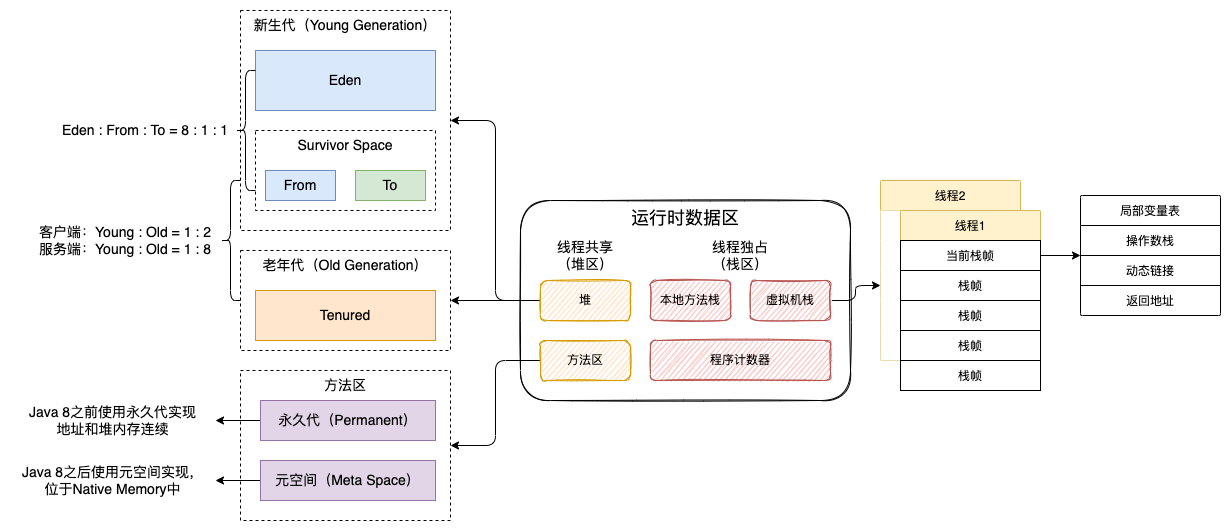
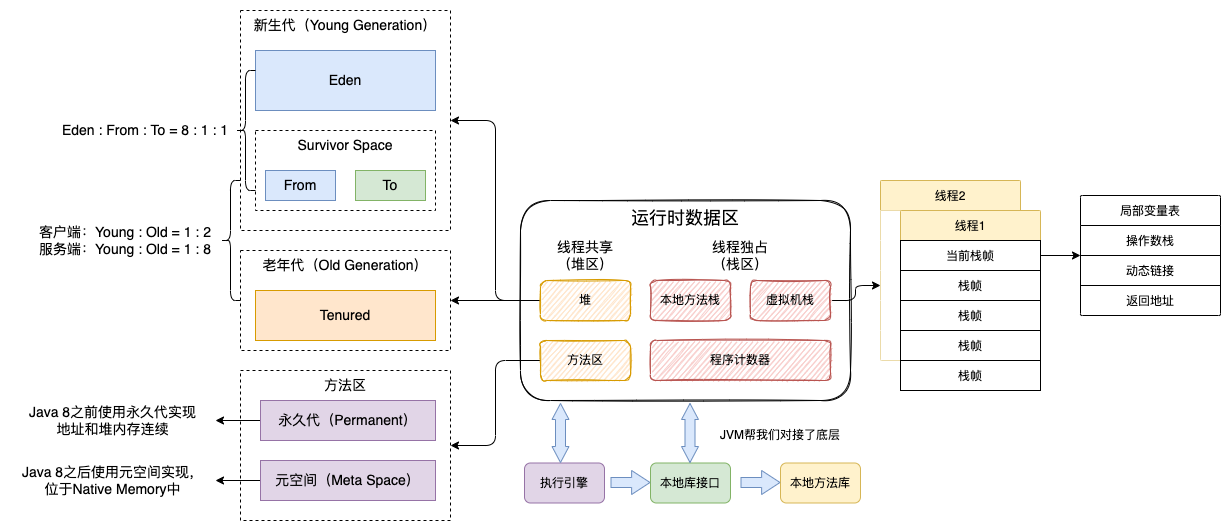
补充JVM内存模型，静态类初始化

Changed region(s): [[0.4013, 0.7533, 0.71, 0.9642]]

diff --git a/src/Android性能/README.md b/src/Android性能/README.md
@@ -1,1 +1,7 @@
 还未迁移，见[博客](https://blog.afauria.xyz/categories/Android/)
+
+# 大图片
+
+1. Android 3.0 之前：Bitmap像素数据存储在 native 堆中，数据的释放依赖 Java对象的 finalize() 方法回调，该方法的调用不太可靠，而且现在已经被 Java 标记为废弃。
+2. Android 3.0 ~ 7.0：Bitmap 像素数据存储在 Java 堆中，确实解决了可靠释放的问题；也带来一个新问题：Android 应用程序对 Java 堆的限制是很严格的，创建Bitmap这种大对象容易引起 GC。
+3. Android 8.0 及以后：Bitmap 像素数据存储在 native 堆中，同时引入了 NativeAllocationRegistry 机制保证了 native 内存释放的可靠性，同时可以用的空间大大增加。

diff --git a/src/Java/类的加载和初始化.md b/src/Java/类的加载和初始化.md
@@ -24,6 +24,13 @@ tags:
 - 子类的普通变量和普通代码块
 - 子类构造函数
 
+静态内部类的初始化：
+
+1. 静态内部类和静态变量一样只和类有关，和对象引用无关，不需要通过实例调用。
+2. 静态内部类在使用时（不一定要实例化）才加载（可用于实现懒汉单例模式）
+3. 加载外部类、或者使用外部类对象时不会初始化静态内部类。
+4. 加载静态内部类时会初始化外部类
+
 # 类的加载
 
 ## 类加载方式

diff --git a/src/README.md b/src/README.md
@@ -20,7 +20,7 @@
 
 整理中...（粗体表示暂未整理）
 
-精心整理，原创发布。包含大量容易忽略的细节，尽可能通俗、简短，不说废话。
+精心整理，原创发布。包含大量容易忽略的细节，尽可能通俗、简短，不吹水。
 
 设计模式篇源码[仓库位置](https://github.com/Afauria/DesignPattern)
 

diff --git a/src/Java/Java内存模型.md b/src/Java/Java内存模型.md
@@ -4,3 +4,4 @@ https://zhuanlan.zhihu.com/p/29881777
 
 JMM
 
+https://www.hollischuang.com/archives/2550
